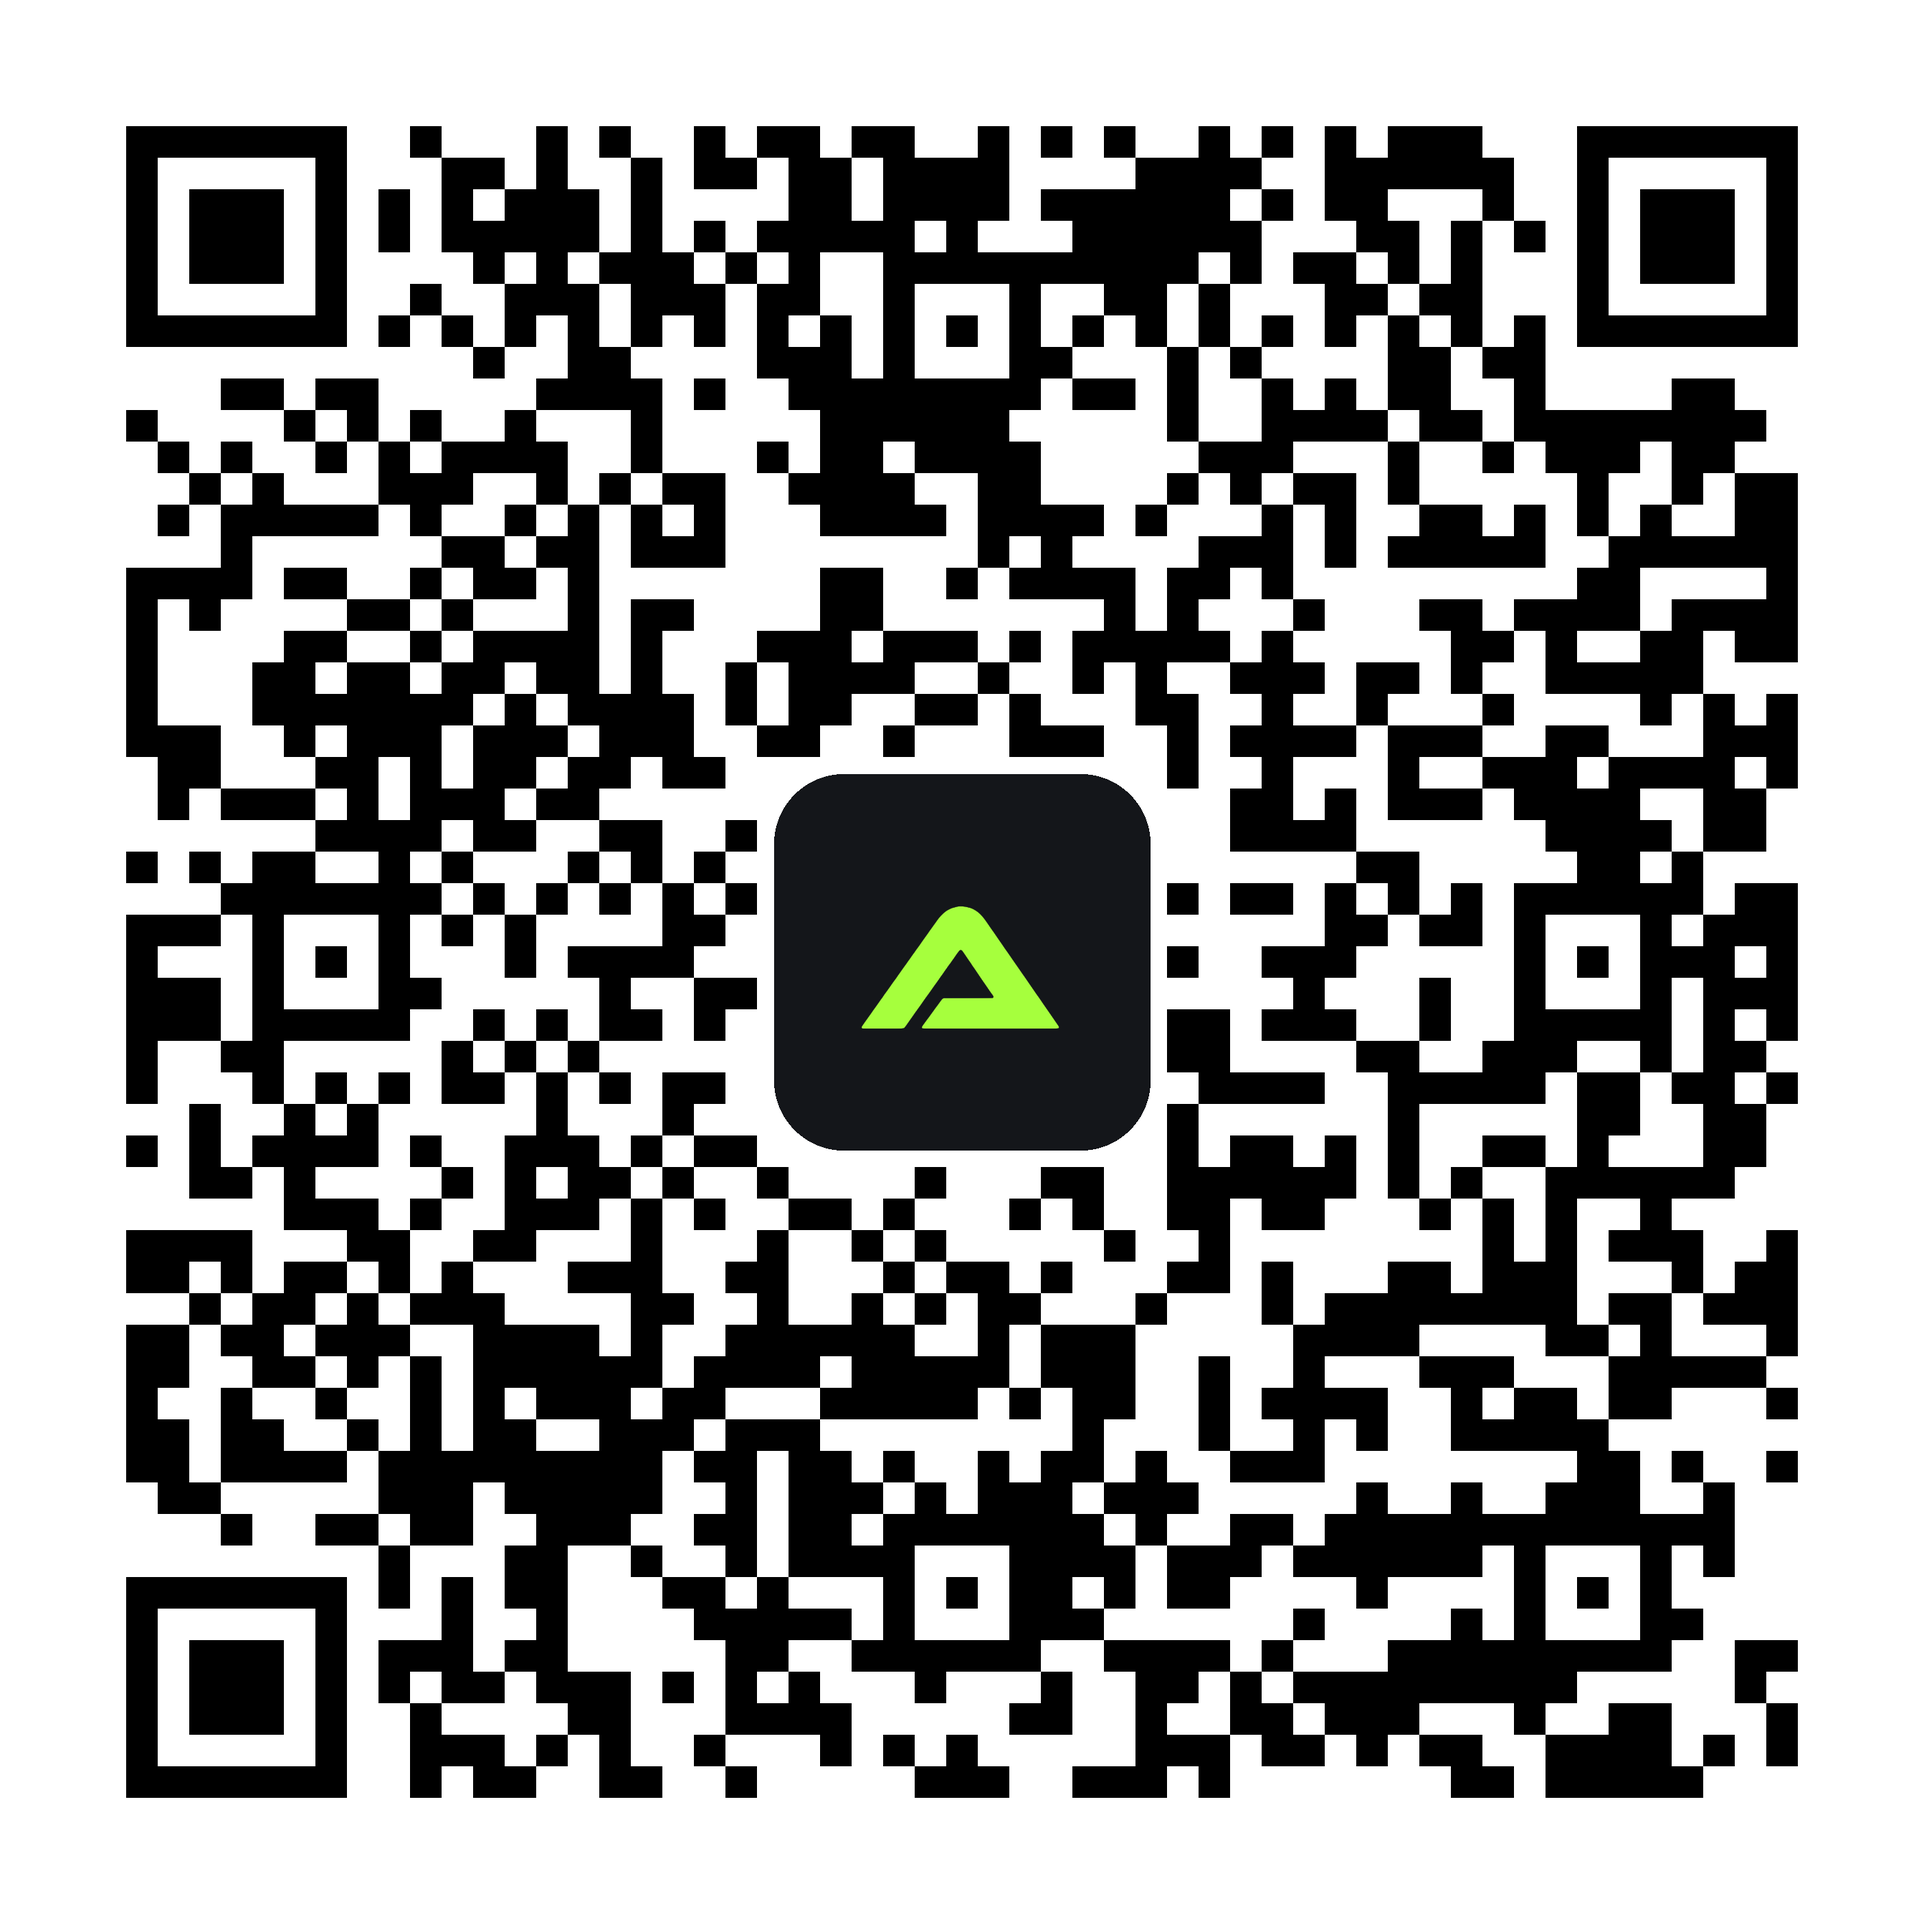
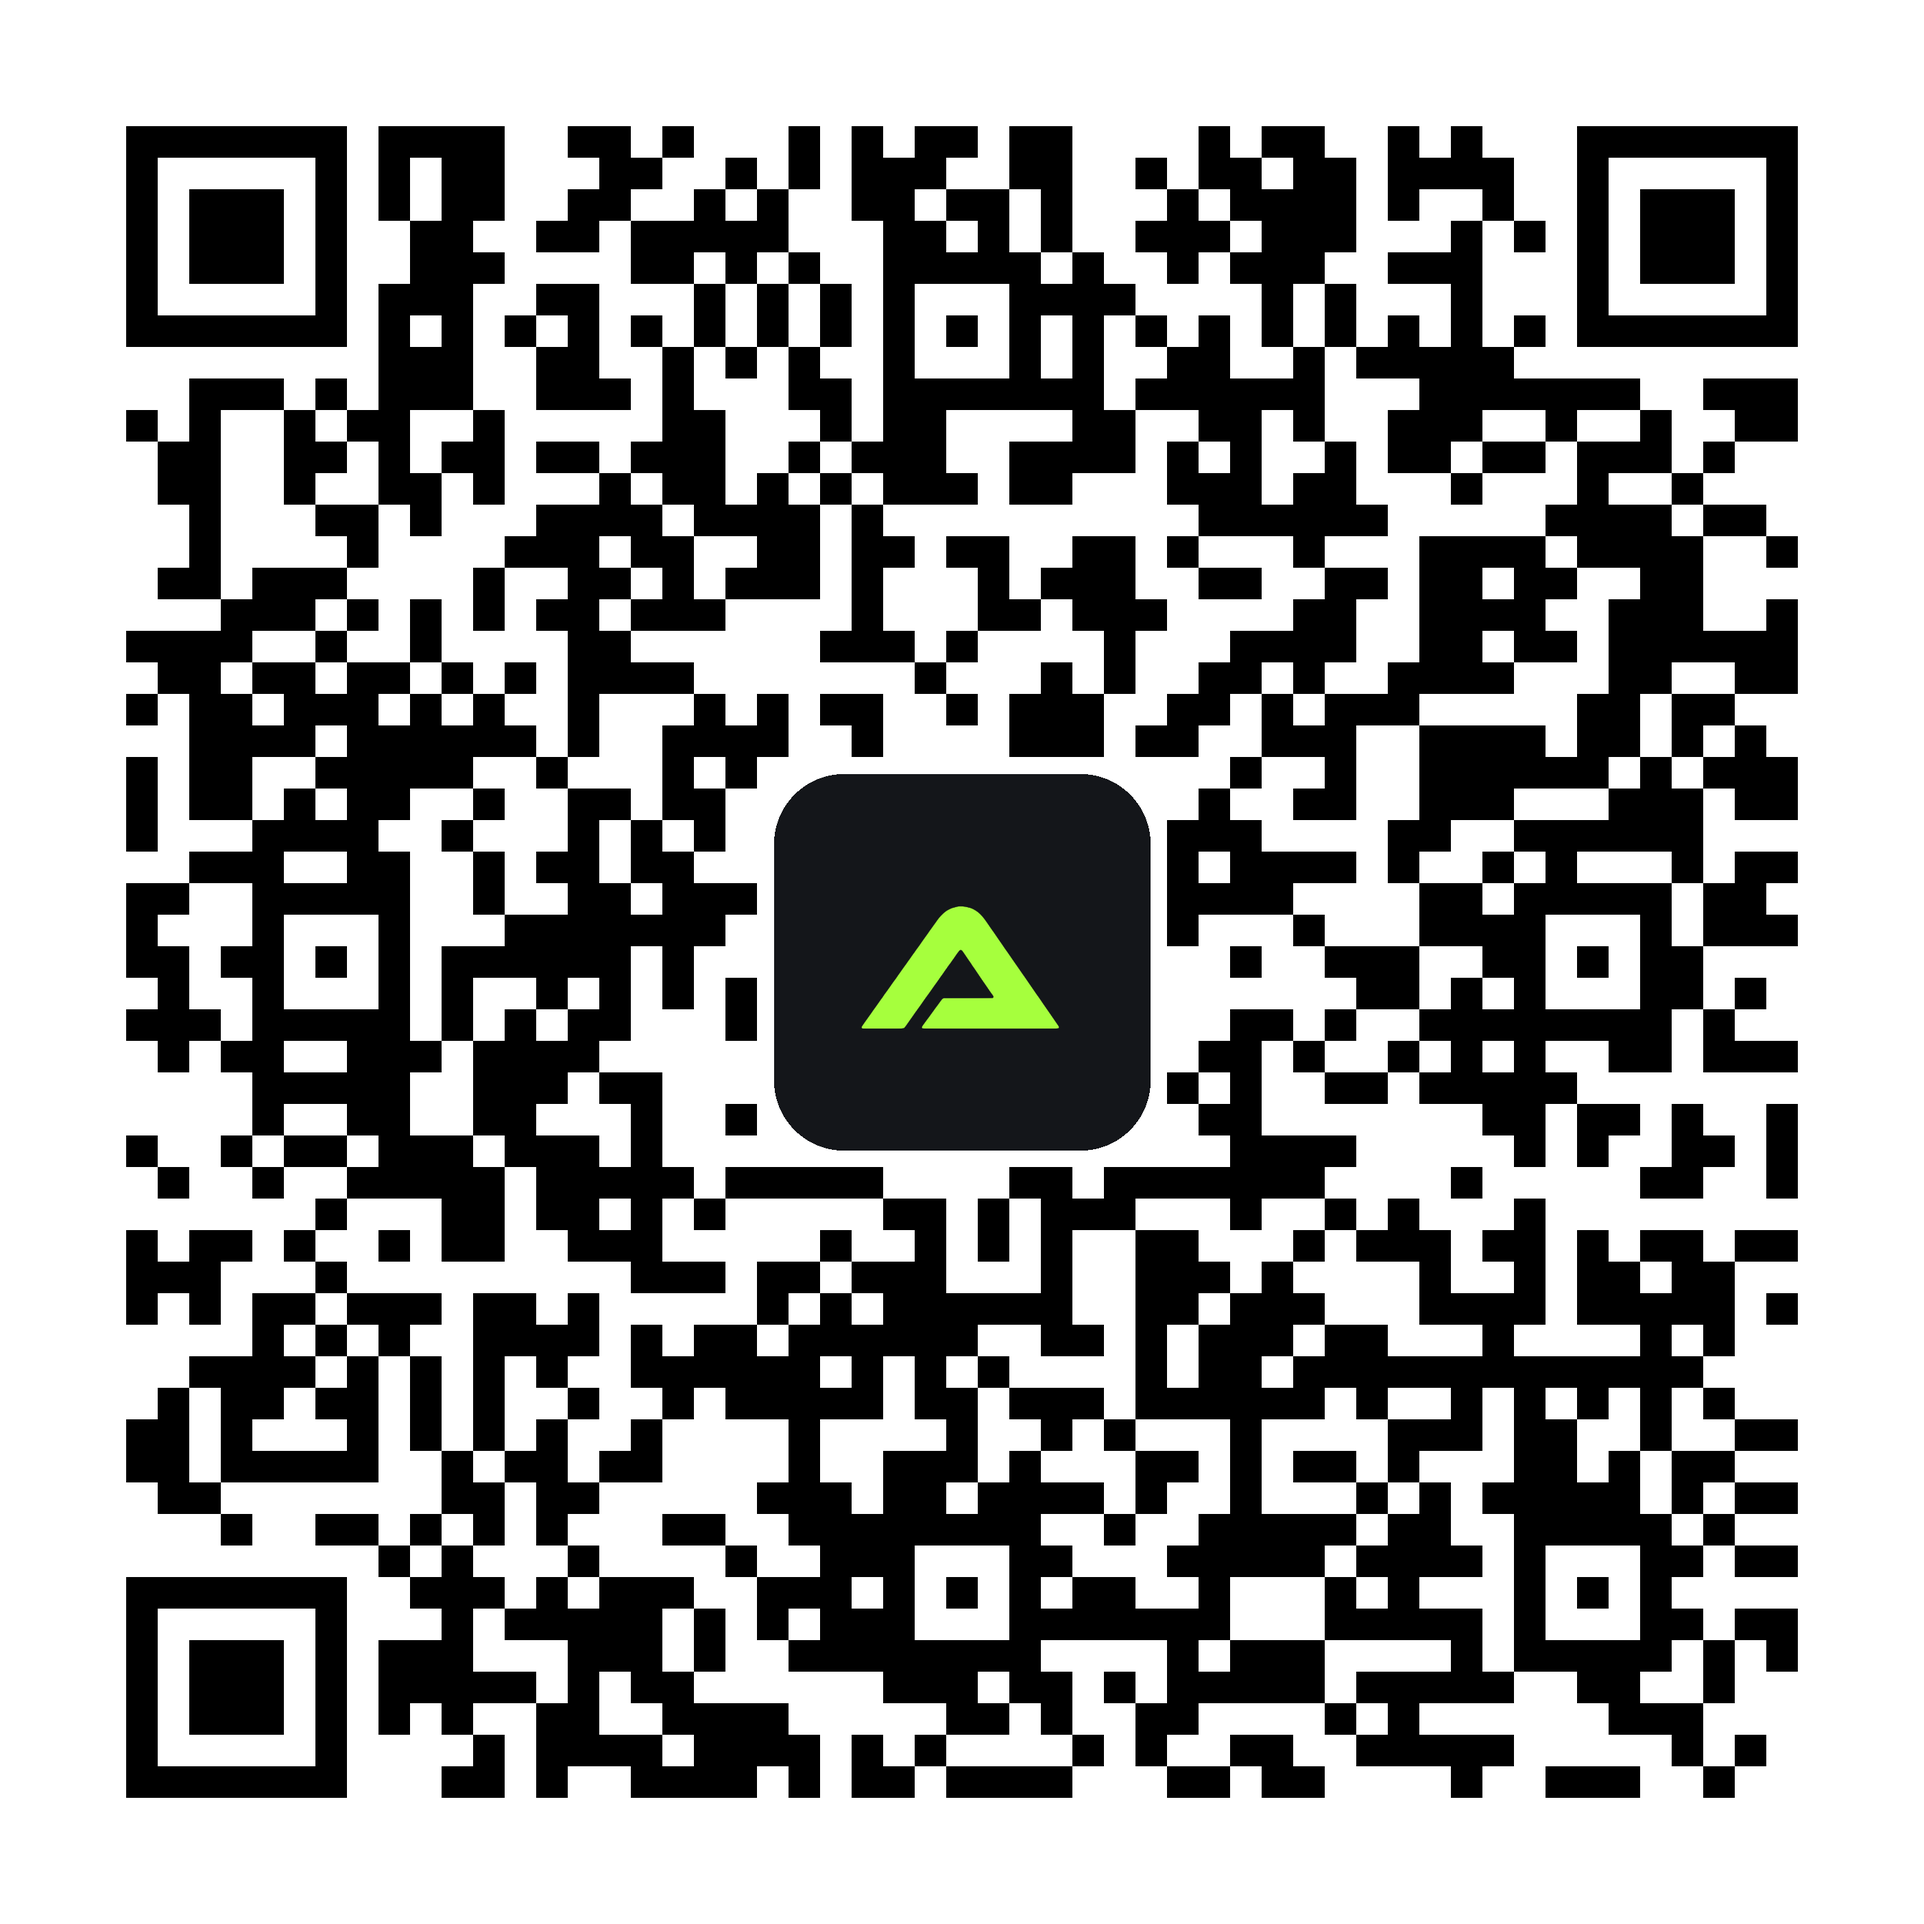
Demo: early access QR now opens Linktree, shown big with the stand card's text under it

Changed region(s): [[0.062, 0.062, 0.9612, 0.9612]]

diff --git a/public/demo/style.css b/public/demo/style.css
@@ -733,3 +733,15 @@ tr.tapped td { animation: rowtap .9s var(--ease); }
 @media (max-aspect-ratio: 1/1), (max-width: 760px), (max-height: 560px) {
   .map-wrap { width: min(100%, calc(66svh * var(--map-ar))); height: auto; max-height: none; aspect-ratio: var(--map-ar); }
 }
+
+/* early access sheet, same look as the printed stand card: big code on top, text under it */
+.sheet-card { --q: min(48svh, 72vw, 440px); grid-template-columns: 1fr; justify-items: center; text-align: center; gap: 0; width: auto; max-width: calc(100vw - 2 * var(--pad));
+  padding: clamp(16px, 2.4svh, 26px) clamp(16px, 2.4svh, 26px) clamp(18px, 2.8svh, 30px);
+  background-image: radial-gradient(120% 70% at 50% 0%, rgba(166,255,61,.14), transparent 60%); }
+.sheet-card .qr-card { padding: 6px; border-radius: 22px; box-shadow: 0 0 0 1px rgba(166,255,61,.35); }
+.sheet-card .qr-card img { display: block; width: var(--q); }
+.sheet-card h2 { margin-top: clamp(14px, 2.4svh, 24px); font-size: clamp(30px, 5svh, 46px); line-height: 1.03; letter-spacing: -.03em; }
+.sheet-card .lead { margin-top: 8px; font-size: clamp(15px, 2.1svh, 19px); }
+.qr-url { margin-top: 8px; font-family: GeistMono, monospace; font-size: clamp(12px, 1.6svh, 14px); letter-spacing: .06em; }
+.qr-url b { color: var(--lime); font-weight: 500; }
+.sheet-card .btn { margin-top: clamp(14px, 2.4svh, 22px); }

diff --git a/public/demo/index.html b/public/demo/index.html
@@ -237,13 +237,11 @@
 <!-- Early access sheet -->
 <div class="sheet" id="qr-sheet" hidden>
   <div class="sheet-card">
-    <div>
-      <p class="eyebrow">Early access</p>
-      <h2>Want this <span class="lime">on your ranch?</span></h2>
-      <p class="lead">Scan to leave your details. We'll set you up.</p>
-      <button class="btn" id="close-qr">Back to the demo</button>
-    </div>
-    <div class="qr-card"><img src="assets/qr.png" alt="QR code for agrivanna.com/launch"><span>agrivanna.com/launch</span></div>
+    <div class="qr-card"><img src="assets/qr.png" alt="QR code for linktr.ee/agrivanna"></div>
+    <h2>Curious about<br><span class="lime">Agrivanna?</span></h2>
+    <p class="lead">Scan for early access and our story.</p>
+    <span class="qr-url"><b>→</b> linktr.ee/agrivanna</span>
+    <button class="btn" id="close-qr">Back to the demo</button>
   </div>
 </div>
 

diff --git a/public/demo/sw.js b/public/demo/sw.js
@@ -1,6 +1,6 @@
 /* Precaches every file the demo uses, then serves everything from the cache, so
    the demo runs with Wi-Fi off. Bump VERSION whenever any file changes. */
-const VERSION = "booth-demo-v19";
+const VERSION = "booth-demo-v20";
 const FILES = [
   "/demo", "/demo/index.html", "/demo/style.css", "/demo/app.js", "/demo/data.js", "/demo/manifest.webmanifest",
   "/demo/assets/map.jpg", "/demo/assets/logo.png", "/demo/assets/mark.png", "/demo/assets/qr.png",
